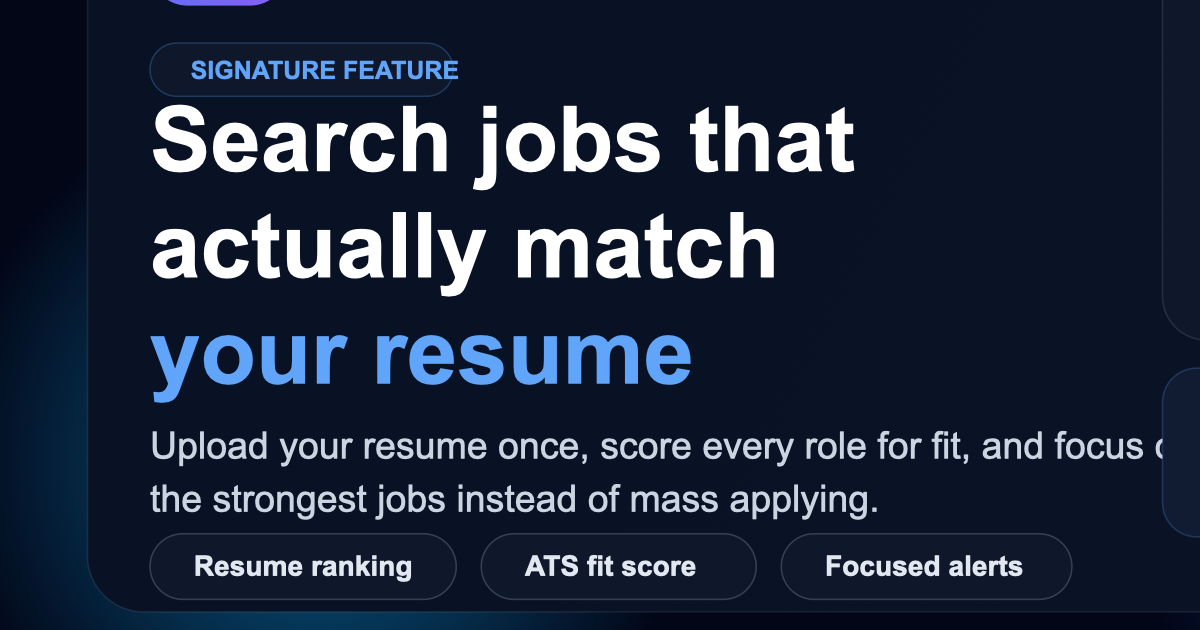
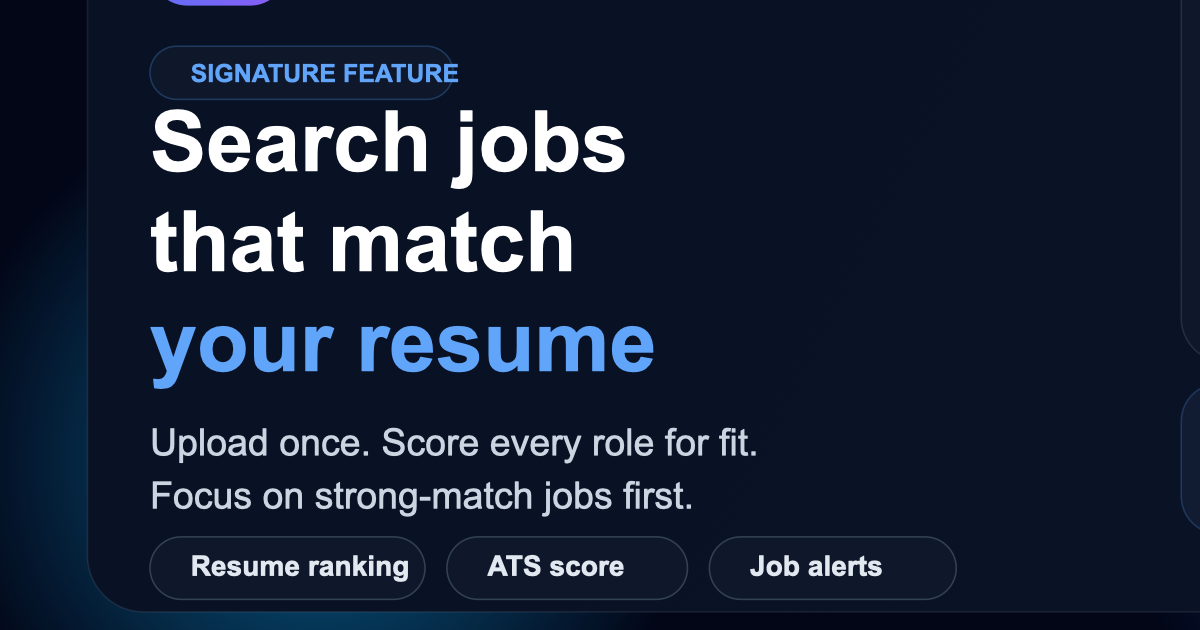
improving preview

diff --git a/src/frontend/styles.css b/src/frontend/styles.css
@@ -631,6 +631,7 @@ h6,
 .story-card,
 .feature-card,
 .dashboard-card,
+.auth-panel,
 .panel,
 .job-card,
 .alert-card,
@@ -1207,9 +1208,15 @@ h6,
 
 .auth-layout {
     display: grid;
-    grid-template-columns: minmax(400px, 600px);
+    grid-template-columns: minmax(360px, 1fr) minmax(360px, 560px);
     justify-content: center;
     gap: 32px;
+    align-items: stretch;
+    min-height: 66vh;
+}
+
+.auth-layout--single {
+    grid-template-columns: minmax(320px, 620px);
     align-items: center;
     min-height: 60vh;
 }
@@ -1230,14 +1237,111 @@ h6,
 }
 
 .auth-panel--story {
+    display: grid;
+    align-content: start;
+    gap: 24px;
     background: linear-gradient(135deg, rgba(30, 41, 59, 0.4), rgba(15, 23, 42, 0.6));
-    border: 1px solid var(--border-light);
-    border-radius: 24px;
+}
+
+.auth-panel--story h1 {
+    margin: 0;
+    font-size: clamp(2.35rem, 4vw, 3.5rem);
+    line-height: 1.08;
+}
+
+.auth-panel--story>p:not(.section-heading__eyebrow) {
+    margin: 0;
+    max-width: 56ch;
+    color: var(--text-muted);
+    line-height: 1.7;
 }
 
 .auth-panel--form {
-    background: rgba(15, 23, 42, 0.8);
+    background: linear-gradient(145deg, rgba(15, 23, 42, 0.84), rgba(15, 23, 42, 0.96));
     backdrop-filter: blur(20px);
+    -webkit-backdrop-filter: blur(20px);
+    box-shadow: var(--shadow-lg), inset 0 1px 0 rgba(255, 255, 255, 0.04);
+}
+
+.auth-panel--plain {
+    justify-self: center;
+    width: min(100%, 620px);
+}
+
+.auth-card {
+    display: grid;
+    gap: 24px;
+}
+
+.auth-card__header {
+    display: grid;
+    gap: 10px;
+}
+
+.auth-card__header h1,
+.auth-card__header h2 {
+    margin: 0;
+    font-size: clamp(1.7rem, 3vw, 2.35rem);
+    line-height: 1.12;
+    font-family: 'Outfit', sans-serif;
+}
+
+.auth-card__header p {
+    margin: 0;
+}
+
+.auth-story-card {
+    display: grid;
+    gap: 14px;
+    padding: 22px 24px;
+    border-radius: 22px;
+    background: linear-gradient(155deg, rgba(15, 23, 42, 0.74), rgba(30, 41, 59, 0.56));
+    border: 1px solid rgba(255, 255, 255, 0.08);
+    box-shadow: inset 0 1px 0 rgba(255, 255, 255, 0.04);
+}
+
+.auth-story-card--warm {
+    border-color: rgba(96, 165, 250, 0.24);
+    background:
+        radial-gradient(circle at top right, rgba(59, 130, 246, 0.18), transparent 42%),
+        linear-gradient(155deg, rgba(15, 23, 42, 0.88), rgba(30, 41, 59, 0.72));
+}
+
+.auth-story-card h2 {
+    margin: 0;
+    font-size: 1.4rem;
+    line-height: 1.35;
+    font-family: 'Outfit', sans-serif;
+}
+
+.auth-story-card p {
+    margin: 0;
+}
+
+.auth-checklist span {
+    display: inline-flex;
+    align-items: center;
+    padding: 0.55rem 0.9rem;
+    border-radius: 999px;
+    background: rgba(255, 255, 255, 0.05);
+    border: 1px solid rgba(255, 255, 255, 0.08);
+    color: var(--text-muted);
+    font-size: 0.84rem;
+    font-weight: 600;
+}
+
+.form-grid--auth {
+    grid-template-columns: 1fr;
+    padding: 0;
+    row-gap: 18px;
+}
+
+.actions--auth {
+    justify-content: flex-start;
+}
+
+.actions--auth .button {
+    min-width: 160px;
 }
 
 /* Scrollbar */

diff --git a/test/vercel-routing.test.js b/test/vercel-routing.test.js
@@ -1,0 +1,13 @@
+import assert from 'node:assert/strict';
+import test from 'node:test';
+import { readFile } from 'node:fs/promises';
+
+test('vercel routes include social preview and SEO assets', async () => {
+    const vercelConfig = JSON.parse(await readFile(new URL('../vercel.json', import.meta.url), 'utf8'));
+    const assetRoute = vercelConfig.routes.find((route) =>
+        route.src === '^/(favicon\\.svg|social-preview\\.png|social-preview\\.svg|robots\\.txt|sitemap\\.xml)$',
+    );
+
+    assert.ok(assetRoute, 'expected Vercel route for social preview and SEO assets');
+    assert.equal(assetRoute.dest, '/api/web?path=/$1');
+});

diff --git a/src/frontend/login.html b/src/frontend/login.html
@@ -74,7 +74,7 @@
         <footer class="site-footer">
             <div class="site-footer__brand">
                 <strong>ApplyDesk Cloud</strong>
-                <p>One login flow.</p>
+                <p>Log in, restore your account, and continue your focused job search.</p>
             </div>
 
             <nav class="site-footer__nav" aria-label="Footer">
